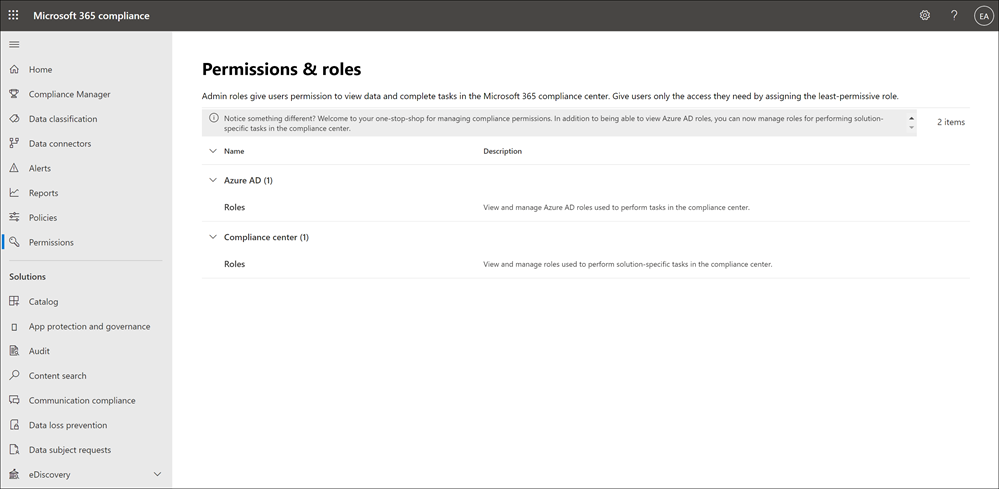
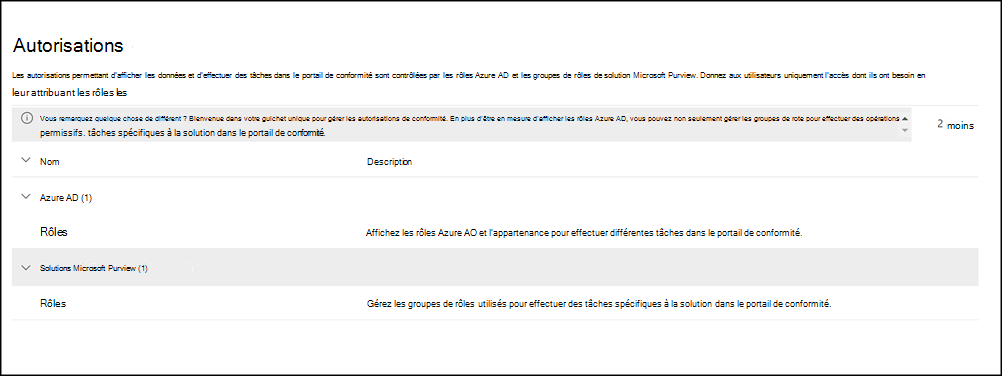
commit translated contents

diff --git a/microsoft-365/compliance/email-encryption.md b/microsoft-365/compliance/email-encryption.md
@@ -18,21 +18,21 @@ ms.collection:
 - M365-security-compliance
 - m365solution-mip
 - m365initiative-compliance
-description: Comparez les options de chiffrement Microsoft 365, notamment la fonctionnalité de chiffrement des messages Office 365 (OME), S/MIME, la gestion des droits relatifs à l’information (IRM) et découvrez le protocole TLS.
-ms.openlocfilehash: 1d6ad4f595652b39ff6e984afe096272a7920c4d
-ms.sourcegitcommit: d4b867e37bf741528ded7fb289e4f6847228d2c5
+description: Comparez les options de chiffrement Microsoft 365, notamment la fonctionnalité de chiffrement des messages Office (OME), S/MIME, la gestion des droits relatifs à l’information (IRM), et découvrez le protocole TLS.
+ms.openlocfilehash: a5541c9a1478d1eb1add40a5aecb7439d1442e1b
+ms.sourcegitcommit: c29fc9d7477c3985d02d7a956a9f4b311c4d9c76
 ms.translationtype: HT
 ms.contentlocale: fr-FR
-ms.lasthandoff: 10/06/2021
-ms.locfileid: "60167269"
+ms.lasthandoff: 07/06/2022
+ms.locfileid: "66624242"
 ---
-# <a name="email-encryption"></a>Chiffrement de l’e-mail
+# <a name="email-encryption"></a>Chiffrement du courrier électronique
 
-Cet article compare les options de chiffrement dans Microsoft 365, notamment la fonctionnalité de chiffrement des messages Office 365 (OME), S/MIME, la gestion des droits relatifs à l’information (IRM), et présente le protocole TLS.
+Cet article compare les options de chiffrement dans Microsoft 365, notamment la fonctionnalité de chiffrement des messages Microsoft (OME), S/MIME, la gestion des droits relatifs à l’information (IRM), et présente le protocole TLS.
   
 Microsoft 365 propose plusieurs options de chiffrement pour vous aider à répondre aux besoins de votre entreprise pour la sécurité des messages électroniques. Cet article présente les trois méthodes de chiffrement de courrier électronique dans Office 365. Si vous voulez en savoir plus sur toutes les fonctionnalités de sécurité dans Office 365, visitez le [centre de gestion de la confidentialité Office 365](https://go.microsoft.com/fwlink/p/?LinkID=282470). Cet article présente les trois types de chiffrement disponibles pour aider les administrateurs Microsoft 365 à sécuriser les messages électroniques dans Microsoft 365 :
   
-- Chiffrement des messages Office (OME).
+- Chiffrement des messages Microsoft Purview.
 
 - S/MIME (Secure/Multipurpose Internet Mail Extension).
 
@@ -60,7 +60,7 @@ Pour plus d’informations sur la façon dont Microsoft 365 sécurise les commun
 
 |Technologie de chiffrement d’e-mail|![Illustration conceptuelle qui décrit OME.](../media/2bf27b5e-bbb3-46d1-95bf-884dc27a746c.png)|![Illustration conceptuelle qui décrit IRM](../media/9c0cc444-9448-40c6-b244-8fcc593a64e0.png)|![Illustration conceptuelle qui décrit SMIME](../media/ae4613a8-c17e-47e1-8e13-12e891e43744.png)|
 |:-----|:-----|:-----|:-----|
-|De quoi s’agit-il ?|Le chiffrement des messages Office 365 (OME) est un service basé sur Azure Rights Management (Azure RMS) qui vous permet d’envoyer des messages chiffrés à des personnes internes ou externes à votre organisation, quelle que soit l’adresse de messagerie de destination (Gmail, Yahoo! Mail, Outlook.com, etc.). <br/> En tant qu’administrateur, vous pouvez configurer des règles de transport qui définissent les conditions de chiffrement. Lorsqu’un utilisateur envoie un message qui correspond à une règle, le chiffrement est automatiquement appliqué. <br/> Pour afficher les messages chiffrés, les destinataires peuvent obtenir un code secret à usage unique, se connecter à l’aide d’un compte Microsoft ou se connecter à l’aide d’un compte professionnel ou scolaire associé à Office 365. Les destinataires peuvent également envoyer des réponses chiffrées. Ils n’ont pas besoin de disposer d’un abonnement à Microsoft 365 pour afficher des messages chiffrés ni pour envoyer des réponses chiffrées.|IRM est une solution de chiffrement qui applique également des restrictions d’utilisation aux messages électroniques. Cette solution permet d’empêcher que des informations sensibles ne soient imprimées, transmises ou copiées par des personnes non autorisées. <br/> Les fonctionnalités IRM dans Microsoft 365 utilisent Azure Rights Management (Azure RMS).|S/MIME est une solution de chiffrement basé sur les certificats qui vous permet de chiffrer et de signer numériquement un message. Le chiffrement des messages permet de garantir que seul le destinataire prévu puisse ouvrir et lire le message. Une signature numérique permet au destinataire de valider l’identité de l’expéditeur. <br/> Les signatures numériques et le chiffrement des messages sont possibles grâce à l’utilisation de certificats numériques uniques qui contiennent les clés pour la vérification des signatures numériques et le chiffrement ou le déchiffrement des messages. <br/> Pour utiliser S/MIME, vous devez disposer des clés publiques sur fichier pour chaque destinataire. Les destinataires doivent tenir à jour leurs propres clés privées, car elles doivent rester sécurisées. Si les clés privées d’un destinataire sont compromises, le destinataire doit obtenir une nouvelle clé privée et redistribuer les clés publiques à tous les expéditeurs potentiels.|
+|De quoi s’agit-il ?|Le chiffrement des messages est un service basé sur Azure Rights Management (Azure RMS) qui vous permet d’envoyer des messages chiffrés à des personnes internes ou externes à votre organisation, quelle que soit l’adresse e-mail de destination (Gmail, Yahoo! Mail, Outlook.com, etc.). <br/> En tant qu’administrateur, vous pouvez configurer des règles de transport qui définissent les conditions de chiffrement. Lorsqu’un utilisateur envoie un message qui correspond à une règle, le chiffrement est automatiquement appliqué. <br/> Pour afficher les messages chiffrés, les destinataires peuvent obtenir un code secret à usage unique, se connecter à l’aide d’un compte Microsoft ou se connecter à l’aide d’un compte professionnel ou scolaire associé à Office 365. Les destinataires peuvent également envoyer des réponses chiffrées. Ils n’ont pas besoin de disposer d’un abonnement à Microsoft 365 pour afficher des messages chiffrés ni pour envoyer des réponses chiffrées.|IRM est une solution de chiffrement qui applique également des restrictions d’utilisation aux messages électroniques. Cette solution permet d’empêcher que des informations sensibles ne soient imprimées, transmises ou copiées par des personnes non autorisées. <br/> Les fonctionnalités IRM dans Microsoft 365 utilisent Azure Rights Management (Azure RMS).|S/MIME est une solution de chiffrement basé sur les certificats qui vous permet de chiffrer et de signer numériquement un message. Le chiffrement des messages permet de garantir que seul le destinataire prévu puisse ouvrir et lire le message. Une signature numérique permet au destinataire de valider l’identité de l’expéditeur. <br/> Les signatures numériques et le chiffrement des messages sont possibles grâce à l’utilisation de certificats numériques uniques qui contiennent les clés pour la vérification des signatures numériques et le chiffrement ou le déchiffrement des messages. <br/> Pour utiliser S/MIME, vous devez disposer des clés publiques sur fichier pour chaque destinataire. Les destinataires doivent tenir à jour leurs propres clés privées, car elles doivent rester sécurisées. Si les clés privées d’un destinataire sont compromises, le destinataire doit obtenir une nouvelle clé privée et redistribuer les clés publiques à tous les expéditeurs potentiels.|
 |Que fait-il ?|OME : <br/> Chiffre les messages envoyés à des destinataires internes ou externes. <br/>  Permet aux utilisateurs d’envoyer des messages chiffrés à n’importe quelle adresse de messagerie électronique, y compris Outlook.com, Yahoo! Mail et Gmail. <br/>  Vous permet, en tant qu’administrateur, de personnaliser le portail d’affichage des messages électroniques pour qu’il corresponde à la marque de votre organisation. <br/> Microsoft gère et stocke les clés de manière sécurisée, vous n’avez donc pas à vous en occuper. <br/> Aucun logiciel spécial côté client n’est nécessaire tant que le message chiffré (envoyé en tant que pièce jointe HTML) peut être ouvert dans un navigateur.|IRM : <br/> Utilise le chiffrement et les restrictions d’utilisation pour fournir une protection en ligne et hors ligne pour les messages électroniques et les pièces jointes. <br/> Vous donne, en votre qualité d’administrateur, la possibilité de configurer des règles de transport ou des règles de protection Outlook pour appliquer automatiquement la gestion des droits relatifs à l’information (IRM) aux messages sélectionnés. <br/> Permet aux utilisateurs d’appliquer manuellement des modèles dans Outlook ou Outlook sur le web (auparavant Outlook Web App).|S/MIME gère l’authentification des expéditeurs par les signatures numériques et la confidentialité des messages par le chiffrement.|
 |Que ne fait-il pas ?|OME ne vous permet pas d’appliquer des restrictions d’utilisation aux messages. Par exemple, vous ne pouvez pas l’utiliser pour empêcher un destinataire de transférer ou d’imprimer un message chiffré.|Certaines applications peuvent ne pas prendre en charge les messages électroniques IRM sur tous les appareils. Pour plus d’informations sur celles-ci et les autres produits qui prennent en charge le courrier électronique IRM, voir [Fonctionnalités d’un appareil client](/azure/information-protection/requirements#BKMK_ClientCapabilities).|S/MIME ne permet pas l’analyse des messages chiffrés pour détecter les logiciels malveillants et le courrier indésirable ou y appliquer des stratégies.|
 |Recommandations et exemples de scénarios|Nous vous recommandons d’utiliser OME lorsque vous souhaitez envoyer des informations professionnelles sensibles à des personnes extérieures à votre organisation, qu’il s’agisse de clients ou d’autres entreprises. Par exemple :  <br/>  Quand un employé de banque envoie des relevés de carte de crédit aux clients ;  <br/>  Quand un cabinet médical envoie un dossier médical à un patient   <br/>  Quand un avocat envoie des informations juridiques à caractère confidentiel à un autre avocat.|Nous vous recommandons d’utiliser la gestion des droits relatifs à l’information (IRM) lorsque vous souhaitez appliquer des restrictions d’utilisation et le chiffrement. Par exemple :  <br/>  Un responsable qui envoie des données confidentielles à son équipe sur un nouveau produit applique l’option « Ne pas transférer ».  <br/>  Un dirigeant doit envoyer une proposition d’appel d’offres à une autre société ; elle contient une pièce jointe d’un partenaire qui utilise Office 365 ; le message électronique et la pièce jointe doivent tous deux être protégés.|Nous vous recommandons d’utiliser S/MIME lorsque votre organisation ou l’organisation du destinataire requiert un véritable chiffrement de pair à pair.  <br/>  S/MIME est la solution utilisée le plus couramment dans les scénarios suivants :  <br/>  Des agences gouvernementales communiquant avec des agences gouvernementales  <br/>  Une entreprise communiquant avec une agence gouvernementale|
@@ -70,7 +70,7 @@ Pour plus d’informations sur la façon dont Microsoft 365 sécurise les commun
 
 Pour plus d’informations sur les options de chiffrement des messages électroniques pour votre abonnement à Microsoft 365, voir la [Description du service Exchange Online](/office365/servicedescriptions/exchange-online-service-description/exchange-online-service-description). Vous y trouverez des informations sur les fonctionnalités de chiffrement suivantes :
   
-- Azure RMS, y compris les fonctionnalités IRM et OME
+- Azure RMS, y compris les fonctionnalités IRM et le chiffrement des messages Microsoft Purview
 
 - S/MIME
 
@@ -88,9 +88,9 @@ Le terme « Données au repos » fait référence aux données qui ne sont pas
 
 Pour plus d’informations sur les options de chiffrement des messages électroniques dans cet article, ainsi que sur le protocole TLS, consultez les articles suivants :
   
-**OME**
+**Chiffrement des messages Microsoft Purview**
   
-[Chiffrement de messages Office 365 (OME)](ome.md)
+[Cryptage des messages](ome.md)
   
 **IRM**
   

diff --git a/microsoft-365/compliance/mip-easy-trials.md b/microsoft-365/compliance/mip-easy-trials.md
@@ -11,18 +11,16 @@ ms.topic: conceptual
 ms.service: O365-seccomp
 ms.localizationpriority: high
 description: En savoir plus sur les étiquettes et stratégies par défaut de Protection des données Microsoft Purview pour classer et protéger le contenu sensible.
-ms.openlocfilehash: a17ba3e87e219d19d8f88f413bf446664aa094a2
-ms.sourcegitcommit: f645e0e9db74b25663cd9ddec7e3824d6ffc57f7
+ms.openlocfilehash: 46718c5f3ecb79cf112012064d0fbf688e21f6d0
+ms.sourcegitcommit: c29fc9d7477c3985d02d7a956a9f4b311c4d9c76
 ms.translationtype: HT
 ms.contentlocale: fr-FR
-ms.lasthandoff: 05/17/2022
-ms.locfileid: "65444177"
+ms.lasthandoff: 07/06/2022
+ms.locfileid: "66629418"
 ---
 # <a name="default-labels-and-policies-to-protect-your-data"></a>Étiquettes et stratégies par défaut pour protéger vos données
 
 >*[Guide de sécurité et conformité pour les licences Microsoft 365](/office365/servicedescriptions/microsoft-365-service-descriptions/microsoft-365-tenantlevel-services-licensing-guidance/microsoft-365-security-compliance-licensing-guidance).*
-
-[!include[Purview banner](../includes/purview-rebrand-banner.md)]
 
 Les clients éligibles peuvent activer les étiquettes et politiques par défaut pour Protection des données Microsoft Purview : 
 
@@ -131,18 +129,39 @@ Si vous souhaitez modifier la configuration de l'étiquetage automatique côté 
 
 ## <a name="service-side-auto-labeling"></a>Étiquetage automatique côté service 
 
-L'étiquetage automatique côté service permet d'étiqueter les documents sensibles au repos et les e-mails en transit. La stratégie d'étiquetage automatique côté service par défaut crée une stratégie en mode simulation pour les documents stockés dans tous les sites SharePoint ou OneDrive et tous les e-mails envoyés via Exchange Online. En mode simulation, les éléments ne sont pas réellement étiquetés tant que vous n'activez pas la stratégie. Le mode simulation vous permet de prévisualiser les éléments qui seraient étiquetés lorsque la stratégie est activée, de sorte que vous ayez confiance dans la fonction d'étiquetage avant de déployer la stratégie sur votre locataire pour un étiquetage réel. 
+L'étiquetage automatique côté service permet d'étiqueter les documents sensibles au repos et les e-mails en transit. La stratégie d’étiquetage automatique côté service par défaut crée des stratégies qui s’exécutent en mode simulation pour les documents stockés dans tous les sites SharePoint ou OneDrive, ainsi que tous les e-mails envoyés via Exchange Online. 
 
-L'étiquetage automatique côté service par défaut a la configuration suivante : 
+En mode simulation, les éléments ne sont pas étiquetés tant que la stratégie n’est pas activée. Vous pouvez activer manuellement la stratégie ou, à moins que vous ne modifiiez le paramètre par défaut, la stratégie est automatiquement activée si aucune modification n’est apportée à la stratégie dans un délai défini de jours à compter de la fin de la simulation.
+
+> [!NOTE]
+> L’activation automatique des stratégies d’étiquetage automatique est nouvelle et progressivement déployée pour les nouvelles stratégies d’étiquetage automatique. Vous risquez de ne pas voir cette configuration immédiatement ou pour toutes les stratégies.
+
+Dans la plupart des cas, il faut compter 7 jours avant l’activation automatique d’une stratégie qui n’a pas été modifiée. Toutefois, l’activation prendra jusqu’à 25 jours pour les clients qui ont créé un compte après le 23 juin 2022 (inclus), puis ce délai passera à 7 jours après la modification de la stratégie.
+
+Le mode simulation vous permet de prévisualiser les éléments qui seraient étiquetés lorsque la stratégie est activée, de sorte que vous ayez confiance dans la fonction d'étiquetage avant de déployer la stratégie sur votre locataire pour un étiquetage réel. 
+
+Les stratégies d’étiquetage automatique côté service par défaut ont la configuration suivante : 
+
+Pour tous les clients :
 
 - S’il existe entre 1 et 9 instances de numéros de carte de crédit trouvés dans un document ou un e-mail, appliquez l’étiquette de confidentialité **Confidentiel** \ **Tout le monde (sans restriction)**
-
+    
 - S’il existe au moins 10 instances de numéros de carte de crédit dans un document ou un e-mail, appliquez l’étiquette de confidentialité **Confidentiel** \ **Tous les employés** 
 
 > [!NOTE]
 > Si nous avons détecté que vous avez publié vos propres étiquettes de sensibilité, nous vous inviterons à sélectionner l'une de vos propres étiquettes pour votre politique d'étiquetage automatique.
 
-Une fois la simulation terminée, examinez les résultats et, si vous en êtes satisfait, activez la stratégie.
+Concernant les clients qui ont créé un compte après le 23 juin 2022 (inclus), et ceux pour lesquels le client Microsoft 365 se trouve dans la région des États-Unis :
+
+- S’il existe entre 1 et 9 instances de données personnelles aux États-Unis et que des document ou des e-mails comportent des noms complets, appliquez l’étiquette de confidentialité **Confidentiel** \ **Tout le monde (sans restriction)**
+
+- S’il existe au moins 10 instances de données personnelles aux États-Unis et que des document ou des e-mails comportent des noms complets, appliquez l’étiquette de confidentialité **Confidentiel** \ **tous les employés** 
+
+Les clients qui ont créé un compte après le 23 juin 2022 (inclus) ont deux stratégies d’étiquetage automatique pour chaque paramètre. Une stratégie concerne l’emplacement Exchange et l’autre les emplacements SharePoint et OneDrive. Bien que les stratégies soient créées en même temps, la simulation n’est pas immédiatement activée pour SharePoint et OneDrive :
+- Emplacement Exchange : la stratégie d’étiquetage automatique est créée et démarre immédiatement la simulation.
+- Emplacements SharePoint et OneDrive : la stratégie d’étiquetage automatique est créée, mais attend 25 jours avant de démarrer automatiquement la simulation. Ce délai vous donne le temps de créer et d’enregistrer des fichiers à ces emplacements. 
+
+Une fois la simulation terminée, passez en revue les résultats et, si vous en êtes satisfait, activez les stratégies. Déploiement lent à partir du 23 juin 2022, par défaut, les stratégies sont automatiquement activées si elles ne sont pas modifiées dans le délai défini (25 jours initialement pour les nouveaux clients, sinon 7 jours).
 
 Pour plus d'informations sur le mode simulation, voir [En savoir plus sur le mode simulation](apply-sensitivity-label-automatically.md#learn-about-simulation-mode).
 

diff --git a/microsoft-365/business-premium/m365bp-protect-devices.md b/microsoft-365/business-premium/m365bp-protect-devices.md
@@ -2,8 +2,8 @@
 title: Configurer et sécuriser des appareils gérés
 f1.keywords:
 - NOCSH
-ms.author: v-kcirillo
-author: cirilk
+ms.author: deniseb
+author: denisebmsft
 manager: dansimp
 audience: Admin
 ms.topic: overview
@@ -23,16 +23,16 @@ search.appverid:
 - BCS160
 - MET150
 description: Vue d’ensemble de la configuration et de la sécurisation des appareils gérés contre les menaces de sécurité et les cyberattaques. Implémentez des défenses de cybersécurité et une protection des points de terminaison par le biais de l’inscription et de l’intégration de tous les appareils. Découvrez comment configurer des stratégies d’appareil et gérer des groupes d’appareils.
-ms.openlocfilehash: ad5ff8c03fa3749cb764949990a491ae8aa0266a
-ms.sourcegitcommit: d1b60ed9a11f5e6e35fbaf30ecaeb9dfd6dd197d
+ms.openlocfilehash: 119b54dd2a00e02fcef9a7caa0406638ec06a261
+ms.sourcegitcommit: c29fc9d7477c3985d02d7a956a9f4b311c4d9c76
 ms.translationtype: HT
 ms.contentlocale: fr-FR
-ms.lasthandoff: 06/29/2022
-ms.locfileid: "66486552"
+ms.lasthandoff: 07/06/2022
+ms.locfileid: "66630834"
 ---
 # <a name="set-up-and-secure-managed-devices"></a>Configurer et sécuriser des appareils gérés
 
-Bienvenue dans votre dernière mission critique. Ici, vous allez intégrer et implémenter la protection pour tous les appareils gérés dans votre organisation. Vous souhaiterez intégrer Defender pour vous assurer que les programmes malveillants et antivirus sont toujours à jour et définir des stratégies qui vous aident à verrouiller vos systèmes. Ensuite, assurez-vous que tous les appareils Windows sont protégés et configurés pour le déploiement d’Office. Soyez assuré que vous avez fait ce que vous pouvez pour être protégé une fois que ces objectifs ont été atteints !
+Bienvenue dans votre dernière mission critique. Ici, vous allez intégrer et implémenter la protection pour tous les appareils gérés de votre organisation. Vous souhaiterez intégrer vos appareils à Defender for Business pour vous assurer que votre protection antivirus et anti-programme malveillant est toujours à jour et définir des stratégies qui vous aident à verrouiller vos systèmes. Vous pouvez également vous assurer que les appareils Windows sont protégés et prêts pour le déploiement d’Office. Lorsque vous avez terminé, vous pouvez être assuré, en sachant que vous avez fait ce que vous pouvez pour protéger votre organisation lorsque ces objectifs ont été atteints !
 
 Vos objectifs de mission :
 
@@ -41,7 +41,14 @@ Vos objectifs de mission :
 - [Examiner et modifier les stratégies d’appareil](m365bp-view-edit-create-mdb-policies.md)
 - [Gérer les groupes d’appareils](m365bp-device-groups-mdb.md)
 
-Une fois ces objectifs atteints, votre mission globale de protection de l’organisation contre les cyberattaques et autres menaces de cybersécurité est un succès ! À présent, veillez à configurer vos équipes d’intervention pour gérer toute situation susceptible de survenir tout en défendant l’intégrité du système. 
+Une fois ces objectifs atteints, votre mission globale de protection de l’organisation contre les cyberattaques et les autres menaces de cybersécurité est accomplie ! À présent, veillez à configurer vos équipes d’intervention pour gérer toute situation susceptible de survenir tout en défendant l’intégrité du système. Découvrez les étapes suivantes !
 
 :::image type="content" source="media/m365bp-secure-managed-devices.jpg" alt-text="Sécuriser les appareils gérés.":::
 
+## <a name="next-steps"></a>Prochaines étapes
+
+1. [Configurez un processus d’opérations de sécurité](m365bp-security-incident-quick-start.md).
+
+2. [En savoir plus sur la gestion des incidents de sécurité](m365bp-security-incident-management.md).
+
+3. [Découvrez comment gérer votre environnement](m365bp-maintain-environment.md).
